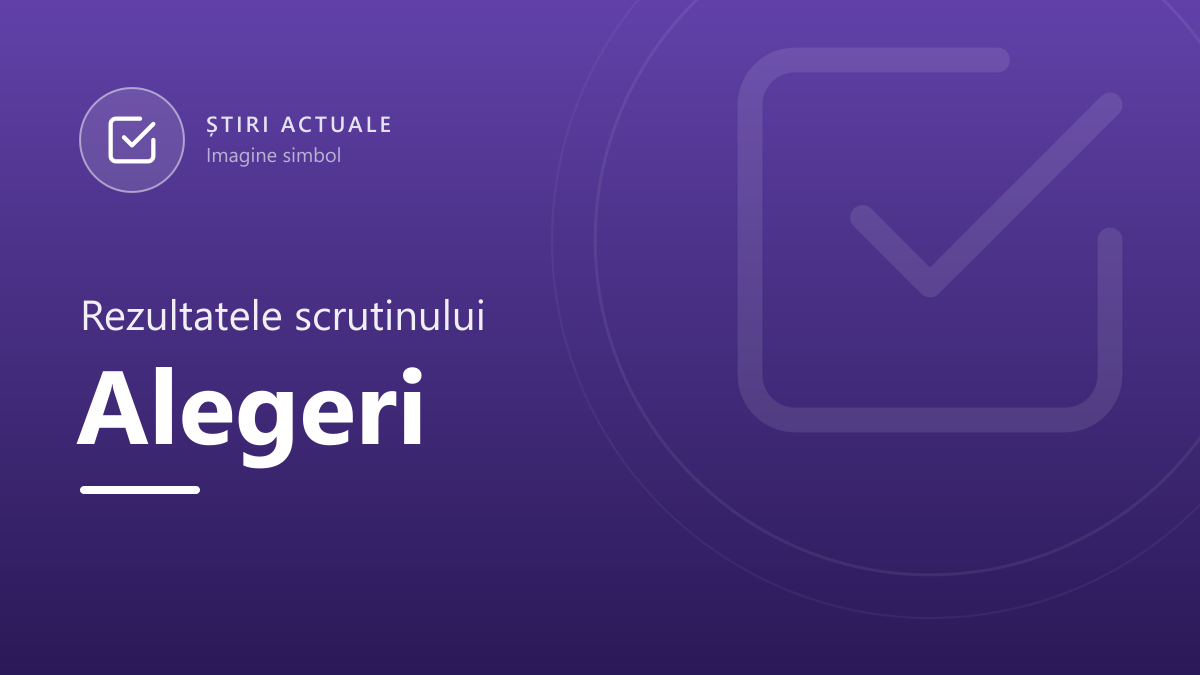
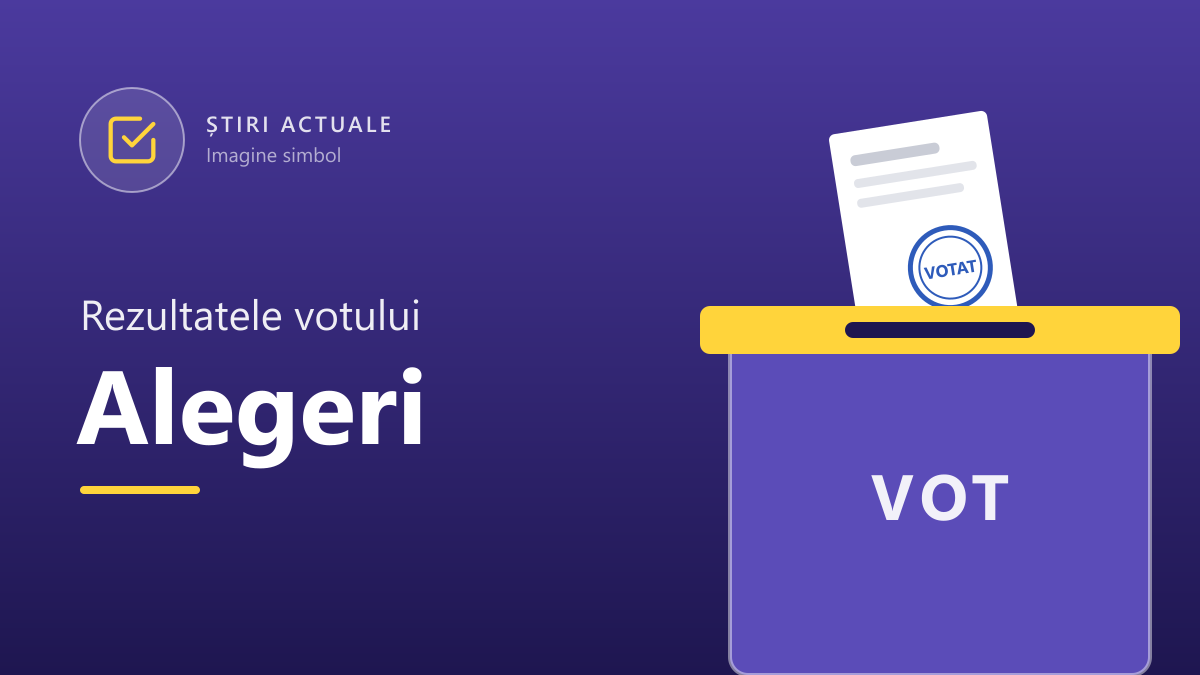
Card Alegeri refăcut: urna de vot cu buletinul ștampilat; orice alegeri primesc urna, înaintea cardului regiunii

diff --git a/src/lib/pipeline/places.ts b/src/lib/pipeline/places.ts
@@ -112,6 +112,16 @@ export function subjectCard(places: Place[], recent: string[], subject: string) 
   return photo ? { url: photo.url, resourceId: null, credit: photo.credit, alt: photo.alt } : null;
 }
 
+// Alegerile primesc urna de vot oriunde ar fi (editorul, 2026-11-12): bașcanul Găgăuziei, localele
+// din raioane, parlamentarele. Bate și cardul regiunii, și locul; „votarea unei legi” nu e alegeri.
+const ELECTIONS = /alegeri|scrutin|referendum|sectii\w* de votare|buletin\w* de vot|campani\w* electoral|comisi\w* electoral|\bcec\b|prezent\w* la vot|turul (i|ii|1|2|doi|unu|al doilea)\b|candidat\w* (la|pentru) (functia|postul|fotoliul) de (primar|bascan|presedinte|deputat)/i;
+export function electionCard(places: Place[], recent: string[], subject: string) {
+  if (!ELECTIONS.test(stripDiacritics(subject))) return null;
+  const photos = places.find((p) => p.id === "card-alegeri")?.photos ?? [];
+  const photo = photos.find((p) => !recent.includes(p.url)) ?? photos[0];
+  return photo ? { url: photo.url, resourceId: null, credit: photo.credit, alt: photo.alt } : null;
+}
+
 export interface SymbolRow {
   id: number;
   title: string;
@@ -204,7 +214,7 @@ export async function matchPlacePhoto(
     const { match } = await structured<{ match: number }>({
       model: HAIKU_MODEL,
       system:
-        "Alegi poza pentru o știre; poza trebuie să arate SUBIECTUL PRINCIPAL. Lista are două feluri de intrări. (1) LOCURI și INSTITUȚII reale (Aeroportul Chișinău, Parlamentul, vama Leușeni, spitalul din Fălești): le alegi doar dacă subiectul principal ESTE acel loc sau acea instituție (zborurile de pe aeroport, o decizie a Parlamentului, cozile la vamă); locul unde s-a întâmplat un accident sau un incendiu NU e subiectul. (2) TEME ilustrative (accident rutier, incendiu, pompieri, poliție, ambulanță, vreme, bani, prețuri, vot, grafice de avertizare, escrocherie): le alegi când știrea e despre acel tip de întâmplare (orice accident rutier -> accident rutier, dar pieton lovit de mașină, autobuz sau camion -> Accident cu pieton; ninsoarea -> ninsoare). Graficele de avertizare (cod galben/portocaliu/roșu) doar dacă știrea E acea avertizare, cu același cod și fenomen. (3) CARDURI de instituție sau regiune (Guvernul, Parlamentul, Președinția, Transnistria, Găgăuzia, Alegeri, Uniunea Europeană, Justiție, Diplomație, Primăria Chișinău, Banca Națională, Apărare, Ucraina, Diaspora): le alegi când CONTEXTUL PRINCIPAL al știrii e acea instituție sau regiune — declarațiile, cererile, deciziile, vizitele liderilor ei. Contextul bate obiectul: liderul de la Tiraspol cere gaz -> Transnistria, nu factura la gaz; Guvernul aprobă o lege -> Guvernul; candidații la bașcan -> Găgăuzia (sau Alegeri); premierul în vizită la Kiev -> Ucraina sau Diplomație. Accidentele, crimele, vremea și prețurile rămân la temele lor din (2), chiar dacă s-au întâmplat în Găgăuzia sau Transnistria. Atacurile, bombardamentele, dronele și rachetele de luptă -> Război (nu Ucraina, care e pentru relațiile cu Ucraina); producția (de rachete antigrindină sau altceva), fabricile, uzinele și industria -> Producție și industrie. Pana de curent, aprovizionarea cu energie -> Energie (facturile rămân la ilustrațiile cu factura). Plățile cu cardul, conturile, tranzacțiile -> Bani și carduri (escrocheriile rămân la escrocherii). Mașinile, actele auto, permisul -> Mașini și acte auto. Violența în familie -> Violență în familie. Joburile, angajatorii, șomajul -> Locuri de muncă. Zborurile, aeroporturile, pasagerii avioanelor -> Aeroport și zboruri. Pietonul lovit -> Accident cu pieton. Compensațiile (la gaz, curent, încălzire, zboruri, plăți compensatorii) -> Compensații. Dronele și baloanele din spațiul aerian al Moldovei, dronele căzute sau găsite -> Drone (atacurile cu drone asupra altor țări rămân la Război). Prețurile la benzină, motorină, GPL, benzinăriile -> Carburanți. Apa oprită, rețelele de apă și canalizare -> Apă și canalizare. (4) SPORT (Lupte, Judo, Box, Fotbal, Atletism, Haltere, Sport): orice știre despre sportivi, medalii, meciuri, campionate primește cardul sportului ei (lupte libere sau greco-romane -> Lupte); alt sport decât cele din listă -> Sport. Drona, racheta, obiectele care nu sunt în listă: -1 (se caută altă poză). În caz de dubiu: -1.",
+        "Alegi poza pentru o știre; poza trebuie să arate SUBIECTUL PRINCIPAL. Lista are două feluri de intrări. (1) LOCURI și INSTITUȚII reale (Aeroportul Chișinău, Parlamentul, vama Leușeni, spitalul din Fălești): le alegi doar dacă subiectul principal ESTE acel loc sau acea instituție (zborurile de pe aeroport, o decizie a Parlamentului, cozile la vamă); locul unde s-a întâmplat un accident sau un incendiu NU e subiectul. (2) TEME ilustrative (accident rutier, incendiu, pompieri, poliție, ambulanță, vreme, bani, prețuri, vot, grafice de avertizare, escrocherie): le alegi când știrea e despre acel tip de întâmplare (orice accident rutier -> accident rutier, dar pieton lovit de mașină, autobuz sau camion -> Accident cu pieton; ninsoarea -> ninsoare). Graficele de avertizare (cod galben/portocaliu/roșu) doar dacă știrea E acea avertizare, cu același cod și fenomen. (3) CARDURI de instituție sau regiune (Guvernul, Parlamentul, Președinția, Transnistria, Găgăuzia, Alegeri, Uniunea Europeană, Justiție, Diplomație, Primăria Chișinău, Banca Națională, Apărare, Ucraina, Diaspora): le alegi când CONTEXTUL PRINCIPAL al știrii e acea instituție sau regiune — declarațiile, cererile, deciziile, vizitele liderilor ei. Contextul bate obiectul: liderul de la Tiraspol cere gaz -> Transnistria, nu factura la gaz; Guvernul aprobă o lege -> Guvernul; candidații la bașcan -> Alegeri; premierul în vizită la Kiev -> Ucraina sau Diplomație. Accidentele, crimele, vremea și prețurile rămân la temele lor din (2), chiar dacă s-au întâmplat în Găgăuzia sau Transnistria. Atacurile, bombardamentele, dronele și rachetele de luptă -> Război (nu Ucraina, care e pentru relațiile cu Ucraina); producția (de rachete antigrindină sau altceva), fabricile, uzinele și industria -> Producție și industrie. Pana de curent, aprovizionarea cu energie -> Energie (facturile rămân la ilustrațiile cu factura). Plățile cu cardul, conturile, tranzacțiile -> Bani și carduri (escrocheriile rămân la escrocherii). Mașinile, actele auto, permisul -> Mașini și acte auto. Violența în familie -> Violență în familie. Joburile, angajatorii, șomajul -> Locuri de muncă. Zborurile, aeroporturile, pasagerii avioanelor -> Aeroport și zboruri. Pietonul lovit -> Accident cu pieton. Compensațiile (la gaz, curent, încălzire, zboruri, plăți compensatorii) -> Compensații. Dronele și baloanele din spațiul aerian al Moldovei, dronele căzute sau găsite -> Drone (atacurile cu drone asupra altor țări rămân la Război). Prețurile la benzină, motorină, GPL, benzinăriile -> Carburanți. Apa oprită, rețelele de apă și canalizare -> Apă și canalizare. (4) SPORT (Lupte, Judo, Box, Fotbal, Atletism, Haltere, Sport): orice știre despre sportivi, medalii, meciuri, campionate primește cardul sportului ei (lupte libere sau greco-romane -> Lupte); alt sport decât cele din listă -> Sport. Drona, racheta, obiectele care nu sunt în listă: -1 (se caută altă poză). În caz de dubiu: -1.",
       prompt: `Știrea: ${subject}\n\nLocuri:\n${places.map((p, i) => `${i}. ${p.name} (${p.keywords})`).join("\n")}`,
       schema: { type: "object", properties: { match: { type: "integer" } }, required: ["match"] },
       maxBudgetUsd: 0.05,

diff --git a/scripts/checks/guide-rule.ts b/scripts/checks/guide-rule.ts
@@ -11,7 +11,7 @@ import {
   type GuideCheck,
 } from "../../src/lib/pipeline/guide-rule";
 import { isDeclaration, passesSelection, reviewRank } from "../../src/lib/pipeline/run";
-import { fallbackCard, subjectCard } from "../../src/lib/pipeline/places";
+import { electionCard, fallbackCard, subjectCard } from "../../src/lib/pipeline/places";
 import { missingGuidesReport, NO_PRACTICAL_NEED } from "../../src/lib/admin/guide-report";
 import type { ScoredCandidate } from "../../src/lib/pipeline/types";
 
@@ -137,7 +137,7 @@ assert.equal(reviewRank("Prețul la motorină crește mâine"), 1);
 assert.equal(reviewRank("Accident la Bălți"), 0);
 
 // --- cardul de rezervă: tema, apoi rubrica; varianta nefolosită recent
-const cardPlaces = ["card-justitie", "ilustratie-politia", "card-pieton", "ilustratie-accident-rutier", "card-razboi", "card-auto", "card-bani-card", "card-aeroport", "card-energie", "card-primaria-chisinau", "card-compensatii", "card-drona", "card-carburanti", "card-apa", "card-industrie", "card-diaspora", "card-judo", "card-sport"].map((id) => ({ id, name: id, keywords: [], photos: [1, 2].map((n) => ({ url: `${id}-${n}`, credit: "Imagine simbol", source: "", alt: id })) })) as never;
+const cardPlaces = ["card-justitie", "ilustratie-politia", "card-pieton", "ilustratie-accident-rutier", "card-razboi", "card-auto", "card-bani-card", "card-aeroport", "card-energie", "card-primaria-chisinau", "card-compensatii", "card-drona", "card-carburanti", "card-apa", "card-industrie", "card-alegeri", "card-diaspora", "card-judo", "card-sport"].map((id) => ({ id, name: id, keywords: [], photos: [1, 2].map((n) => ({ url: `${id}-${n}`, credit: "Imagine simbol", source: "", alt: id })) })) as never;
 assert.equal(fallbackCard(["criminal"], "international", cardPlaces, [], "Val de alerte false cu bombă la zboruri din Europa")?.url, "card-aeroport-1", "subiectul (zborurile) bate tema");
 assert.equal(fallbackCard(["criminal"], "national", cardPlaces, [], "Furt dintr-un magazin din Ungheni")?.url, "ilustratie-politia-1", "fapta: fără instanță");
 assert.equal(fallbackCard(["criminal"], "diaspora", cardPlaces, [], "Moldovean condamnat la Moscova")?.url, "card-justitie-1");
@@ -160,6 +160,9 @@ assert.equal(subjectCard(cardPlaces, [], "Benzina și motorina se ieftinesc vine
 assert.equal(fallbackCard([], "national", cardPlaces, [], "Moldova vrea să producă rachete antigrindină din 2027")?.url, "card-industrie-1", "antigrindina e producție");
 assert.equal(fallbackCard([], "national", cardPlaces, [], "Uzina din Ucraina va produce rachete pentru armată")?.url, "card-industrie-1", "producția de rachete nu e război");
 assert.equal(fallbackCard([], "national", cardPlaces, [], "Dosarul fabricat împotriva primarului a ajuns în instanță")?.url, undefined, "„fabricat” nu e fabrică");
+assert.equal(electionCard(cardPlaces, [], "Găgăuzia: CEC a înregistrat trei candidați la funcția de bașcan")?.url, "card-alegeri-1");
+assert.equal(electionCard(cardPlaces, [], "Alegerile locale noi la Rîșcani: prezența la vot, 32%")?.url, "card-alegeri-1");
+assert.equal(electionCard(cardPlaces, [], "Parlamentul a votat legea bugetului în prima lectură"), null, "votarea unei legi nu e alegeri");
 assert.equal(fallbackCard([], "national", cardPlaces, [], "MAE condamnă survolul celor două rachete rusești")?.url, "card-razboi-1");
 assert.equal(subjectCard(cardPlaces, [], "Guvernul a aprobat un regulament nou"), null);
 assert.equal(fallbackCard(["social"], "national", cardPlaces, [], "Fără apă miercuri la Hulboaca, Bîc și pe mai multe străzi din Chișinău")?.url, "card-apa-1", "apa oprită nu e pensii");

diff --git a/src/lib/pipeline/run.ts b/src/lib/pipeline/run.ts
@@ -13,7 +13,7 @@ import { putMedia } from "@/lib/media";
 import sharp from "sharp";
 import { photosMatch } from "./photo-check";
 import { loadOfficialItems, matchOfficialPhoto } from "./official-photos";
-import { fallbackCard, loadPlaces, loadSymbolPhotos, matchPlacePhoto, subjectCard } from "./places";
+import { fallbackCard, loadPlaces, loadSymbolPhotos, matchPlacePhoto, electionCard, subjectCard } from "./places";
 import { checkRecent, sameStory } from "./recent-duplicate";
 import { mediaTag, photoFigures, type BodyPhoto } from "./media-tag";
 import { pipelineEnabled } from "./settings";
@@ -419,6 +419,7 @@ export async function runPipeline(): Promise<PipelineRunSummary> {
           : youtubeThumb(generated.video_url)
           ? null
           : (official && (await sourcePhoto(official, generated.slug))) ??
+            electionCard(places, recentImages, subject) ??
             (diplomacy ? await card() : null) ??
             (place && { url: place.url, resourceId: null, credit: place.credit, alt: place.alt }) ??
             subjectCard(places, recentImages, subject) ??
